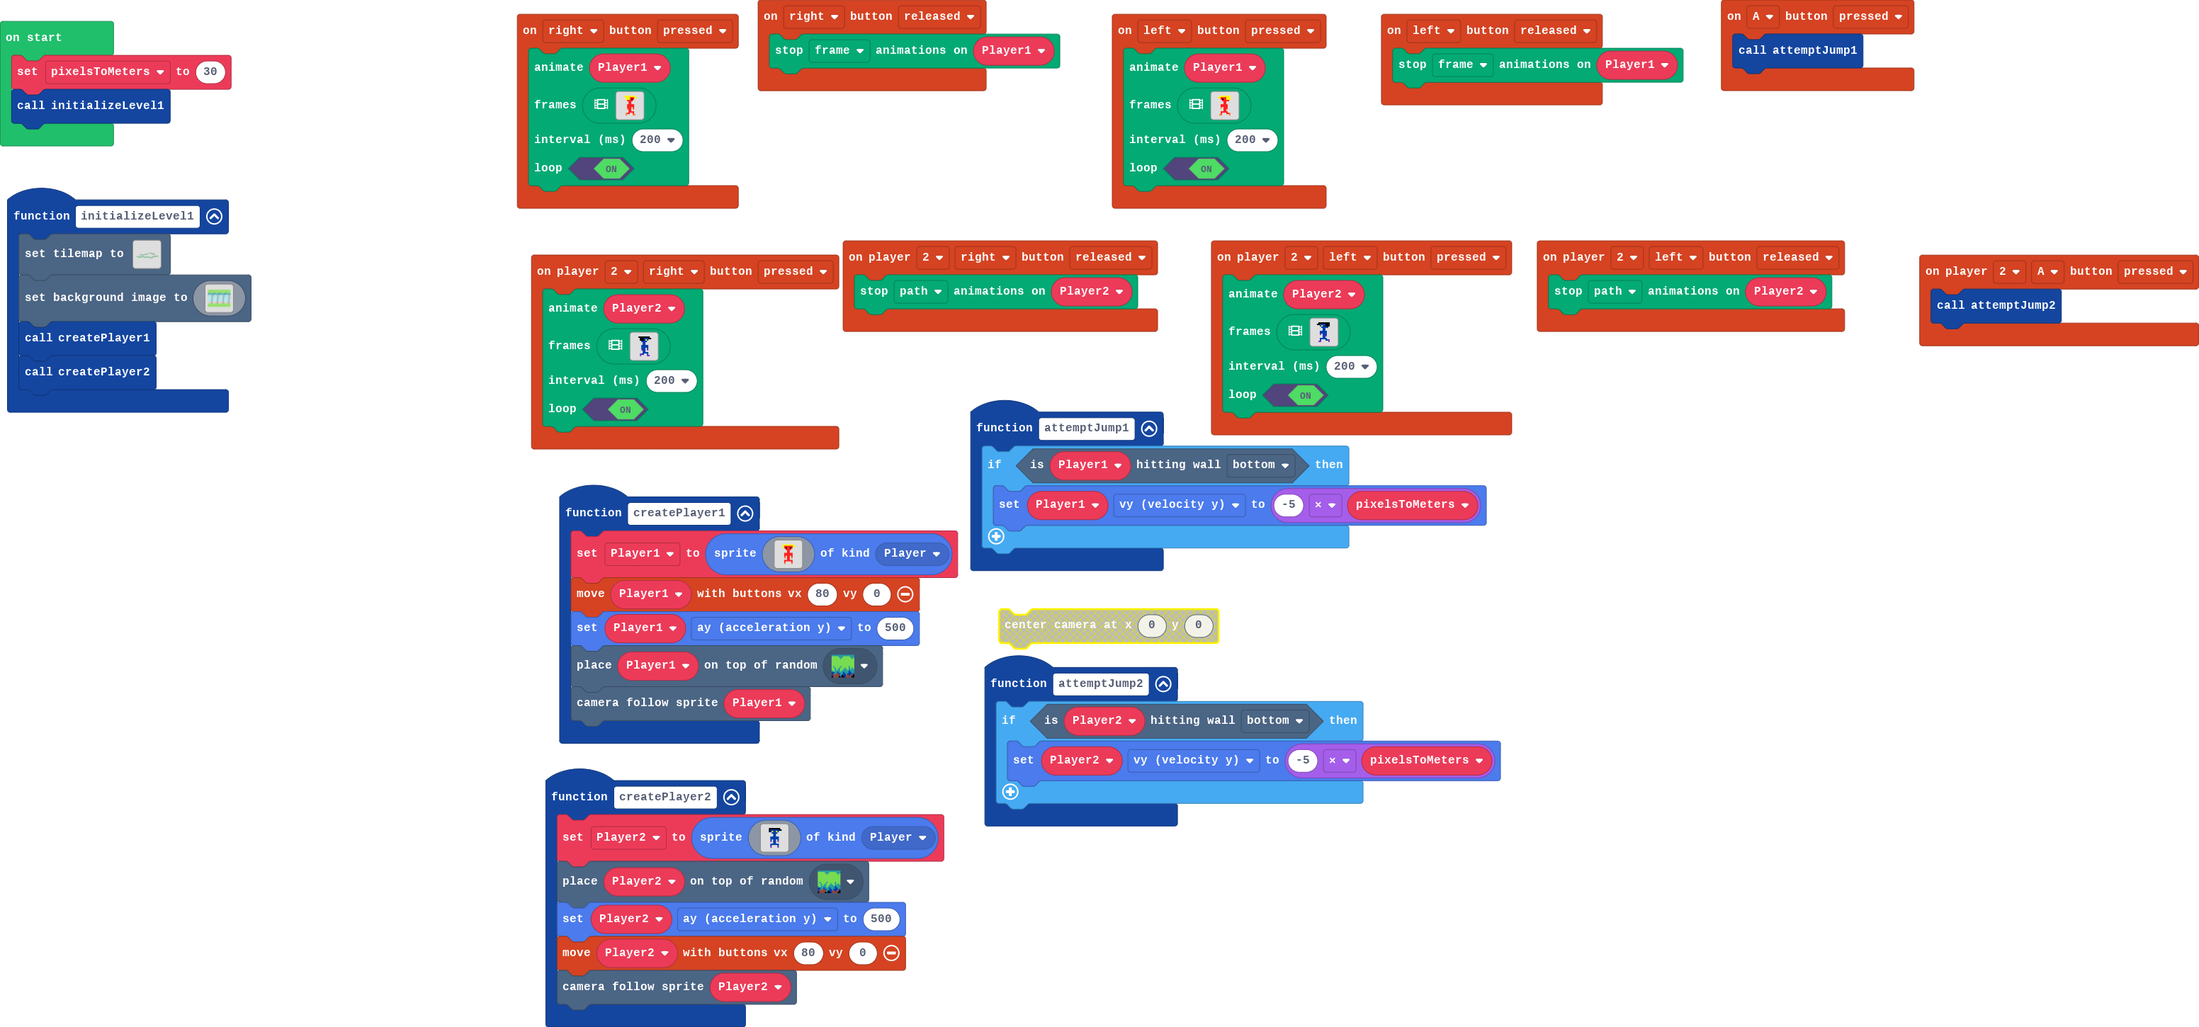
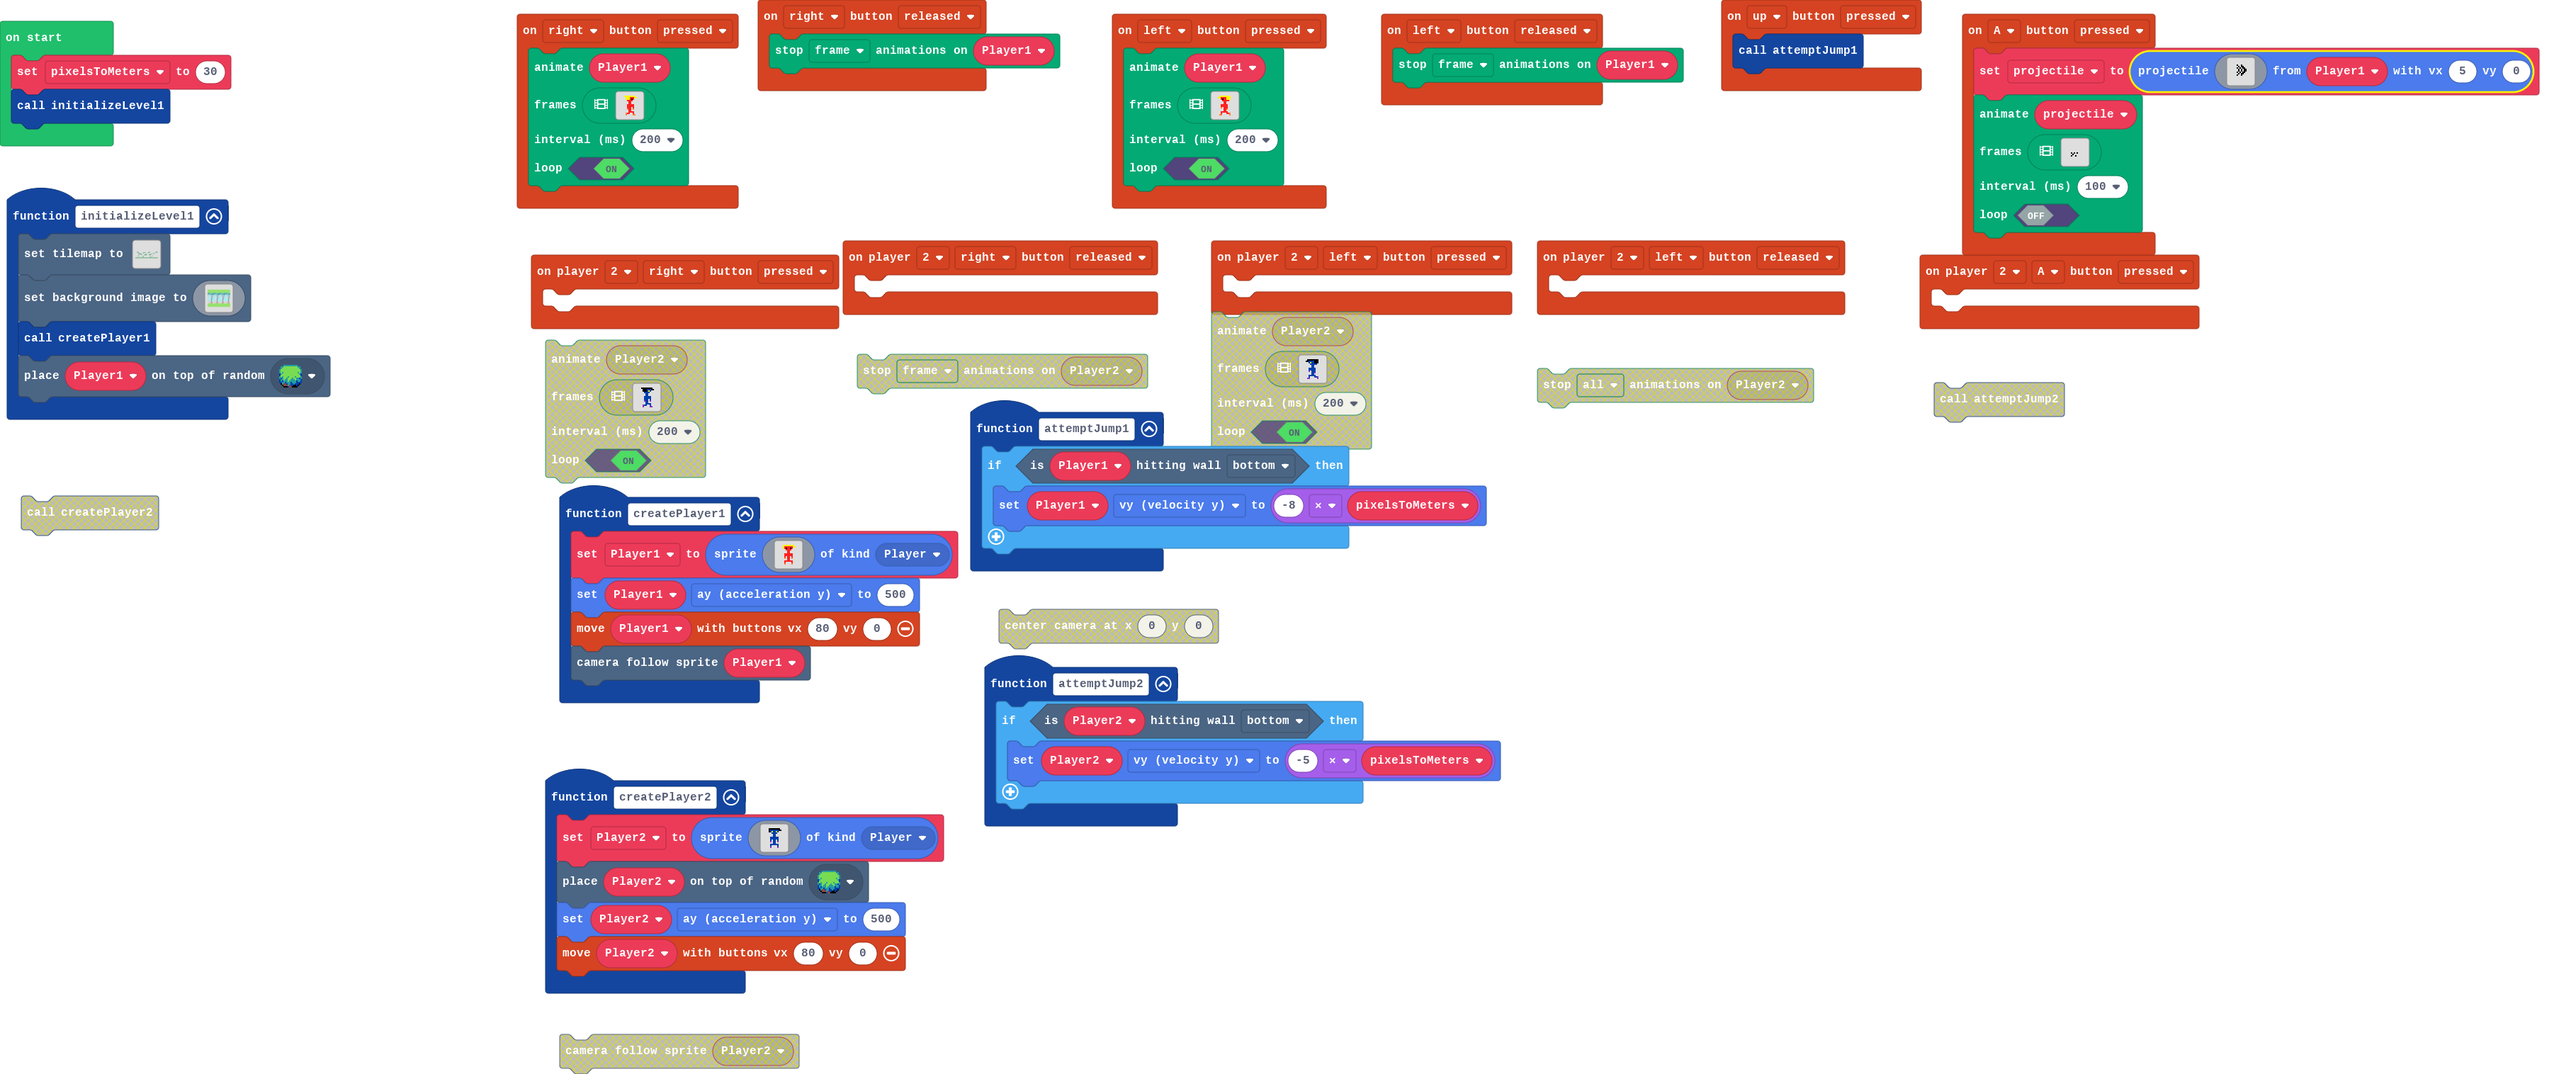
Update main.blocks, main.ts, tilemap.g.jres, tilemap.g.ts, images.g.jres, images.g.ts

diff --git a/tilemap.g.ts b/tilemap.g.ts
@@ -24,23 +24,6 @@ namespace myTiles {
 . . . . . . . . . . . . . . . . 
 . . . . . . . . . . . . . . . . 
 `, [myTiles.transparency16], TileScale.Sixteen);
-            case "Test Tilemap1":
[1 lines of base64/hex data omitted]
-........................................
-........................................
-........................................
-........................................
-........................................
-........................2222............
-....................22......22222.......
-........22......22.22..........2........
-..........22222..................2......
-......2.................................
-...................................22222
-..222....22222................222222...2
-.....22222....222222222222...2..........
-..........................2222..........
-`, [myTiles.transparency16,sprites.builtin.forestTiles0,sprites.builtin.forestTiles22,sprites.builtin.forestTiles21,sprites.builtin.forestTiles23,sprites.builtin.forestTiles3,sprites.builtin.forestTiles1], TileScale.Sixteen);
             case "level2":
             case "level2":return tiles.createTilemap(hex`1000100000000000000000000000000000000000000000000000000000000000000000000000000000000000000000000000000000000000000000000000000000000000000000000000000000000000000000000000000000000000000000000000000000000000000000000000000000000000000000000000000000000000000000000000000000000000000000000000000000000000000000000000000000000000000000000000000000000000000000000000000000000000000000000000000000000000000000000000000000000000000000000000000000000000000000000000000000000000000000000000000000000000000000000000000000000000`, img`
 . . . . . . . . . . . . . . . . 
@@ -60,6 +43,42 @@ namespace myTiles {
 . . . . . . . . . . . . . . . . 
 . . . . . . . . . . . . . . . . 
 `, [myTiles.transparency16], TileScale.Sixteen);
+            case "level3":
+            case "level3":return tiles.createTilemap(hex`1000100000000000000000000000000000000000000000000000000000000000000000000000000000000000000000000000000000000000000000000000000000000000000000000000000000000000000000000000000000000000000000000000000000000000000000000000000000000000000000000000000000000000000000000000000000000000000000000000000000000000000000000000000000000000000000000000000000000000000000000000000000000000000000000000000000000000000000000000000000000000000000000000000000000000000000000000000000000000000000000000000000000000000000000000000000000000`, img`
+. . . . . . . . . . . . . . . . 
+. . . . . . . . . . . . . . . . 
+. . . . . . . . . . . . . . . . 
+. . . . . . . . . . . . . . . . 
+. . . . . . . . . . . . . . . . 
+. . . . . . . . . . . . . . . . 
+. . . . . . . . . . . . . . . . 
+. . . . . . . . . . . . . . . . 
+. . . . . . . . . . . . . . . . 
+. . . . . . . . . . . . . . . . 
+. . . . . . . . . . . . . . . . 
+. . . . . . . . . . . . . . . . 
+. . . . . . . . . . . . . . . . 
+. . . . . . . . . . . . . . . . 
+. . . . . . . . . . . . . . . . 
+. . . . . . . . . . . . . . . . 
+`, [myTiles.transparency16], TileScale.Sixteen);
+            case "Level1":
[1 lines of base64/hex data omitted]
+2......................................2
+2......................................2
+2......................................2
+2..22...................22..........2222
+2...22........2222....222..........2...2
+2.............2.................2......2
+2.....2222...................2..2......2
+2.....2..222......222.....22...........2
+2...............222.....222............2
+2......................................2
+2...2.2......2................2........2
+2............2.............2...........2
+2............2............2............2
+2222222222222222222222222222222222222222
+`, [myTiles.transparency16,sprites.builtin.forestTiles0,sprites.builtin.forestTiles3,sprites.builtin.forestTiles1,sprites.builtin.forestTiles2,sprites.builtin.forestTiles4], TileScale.Sixteen);
         }
         return null;
     })

diff --git a/images.g.ts b/images.g.ts
@@ -60,6 +60,25 @@ namespace myImages {
 . . . . . a . . . . a . . . . . 
 . . . . . . . . . . . . . . . . 
 `;
+            case "image4":
+            case "punchRight":return img`
+. . . . . . . . . . . . . . . . 
+. . . . . . . . . . . . . . . . 
+. . . . . . . . . . . . . . . . 
+. . . . . f . . f . . . . . . . 
+. . . . . . f . f f . . . . . . 
+. . . . . f . f . f f . . . . . 
+. . . . . . f . f . f f . . . . 
+. . . . . . f . f . f f . . . . 
+. . . . . f . f . f f . . . . . 
+. . . . . . f . f f . . . . . . 
+. . . . . f . . f . . . . . . . 
+. . . . . . . . . . . . . . . . 
+. . . . . . . . . . . . . . . . 
+. . . . . . . . . . . . . . . . 
+. . . . . . . . . . . . . . . . 
+. . . . . . . . . . . . . . . . 
+`;
         }
         return null;
     })
@@ -208,6 +227,144 @@ namespace myImages {
 . . . . . 8 8 8 8 8 . . . . . . 
 . . . . a a . . . 8 . . . . . . 
 . . . . . . . . a a . . . . . . 
+. . . . . . . . . . . . . . . . 
+`];
+            case "PunchRightAnimation":
+            case "anim5":return [img`
+. . . . . . . . . . . . . . . . 
+. . . . . . . . . . . . . . . . 
+. . . . . . . . . . . . . . . . 
+. . . . . . . . . . . . . . . . 
+. . . . . . . . . . . . . . . . 
+. . . . . . . . . . . . . . . . 
+. . . . . . . . . . . . . . . . 
+. . . . . . . . . . . . . . . . 
+. . . . . f . f . f . . . . . . 
+. . . . . . f . . . . . . . . . 
+. . . . . f . . f . . . . . . . 
+. . . . . . . . . . . . . . . . 
+. . . . . . . . . . . . . . . . 
+. . . . . . . . . . . . . . . . 
+. . . . . . . . . . . . . . . . 
+. . . . . . . . . . . . . . . . 
+`, img`
+. . . . . . . . . . . . . . . . 
+. . . . . . . . . . . . . . . . 
+. . . . . . . . . . . . . . . . 
+. . . . . . . . . . . . . . . . 
+. . . . . . . . . . . . . . . . 
+. . . . . . . . . . . . . . . . 
+. . . . . . f . f . . . . . . . 
+. . . . . . f . f . f . . . . . 
+. . . . . f . f . f f . . . . . 
+. . . . . . f . f f . . . . . . 
+. . . . . f . . f . . . . . . . 
+. . . . . . . . . . . . . . . . 
+. . . . . . . . . . . . . . . . 
+. . . . . . . . . . . . . . . . 
+. . . . . . . . . . . . . . . . 
+. . . . . . . . . . . . . . . . 
+`, img`
+. . . . . . . . . . . . . . . . 
+. . . . . . . . . . . . . . . . 
+. . . . . . . . . . . . . . . . 
+. . . . . . . . . . . . . . . . 
+. . . . . . . . . . . . . . . . 
+. . . . . . . f . f f . . . . . 
+. . . . . . f . f . f f . . . . 
+. . . . . . f . f . f f . . . . 
+. . . . . f . f . f f . . . . . 
+. . . . . . f . f f . . . . . . 
+. . . . . f . . f . . . . . . . 
+. . . . . . . . . . . . . . . . 
+. . . . . . . . . . . . . . . . 
+. . . . . . . . . . . . . . . . 
+. . . . . . . . . . . . . . . . 
+. . . . . . . . . . . . . . . . 
+`, img`
+. . . . . . . . . . . . . . . . 
+. . . . . . . . . . . . . . . . 
+. . . . . . . . . . . . . . . . 
+. . . . . f . . f . . . . . . . 
+. . . . . . f . f f . . . . . . 
+. . . . . f . f . f f . . . . . 
+. . . . . . f . f . f f . . . . 
+. . . . . . f . f . f f . . . . 
+. . . . . f . f . f f . . . . . 
+. . . . . . f . f f . . . . . . 
+. . . . . f . . f . . . . . . . 
+. . . . . . . . . . . . . . . . 
+. . . . . . . . . . . . . . . . 
+. . . . . . . . . . . . . . . . 
+. . . . . . . . . . . . . . . . 
+. . . . . . . . . . . . . . . . 
+`, img`
+. . . . . . . . . . . . . . . . 
+. . . . . . . . . . . . . . . . 
+. . . . . . . . . . . . . . . . 
+. . . . . f . . f . . . . . . . 
+. . . . . . f . f f . . . . . . 
+. . . . . f . f . f f . . . . . 
+. . . . . . f . f . f f . . . . 
+. . . . . . f . f . f f . . . . 
+. . . . . . . f . f f . . . . . 
+. . . . . . . . . . . . . . . . 
+. . . . . . . . . . . . . . . . 
+. . . . . . . . . . . . . . . . 
+. . . . . . . . . . . . . . . . 
+. . . . . . . . . . . . . . . . 
+. . . . . . . . . . . . . . . . 
+. . . . . . . . . . . . . . . . 
+`, img`
+. . . . . . . . . . . . . . . . 
+. . . . . . . . . . . . . . . . 
+. . . . . . . . . . . . . . . . 
+. . . . . f . . f . . . . . . . 
+. . . . . . f . f f . . . . . . 
+. . . . . f . f . f f . . . . . 
+. . . . . . f . f . f f . . . . 
+. . . . . . . . . . . . . . . . 
+. . . . . . . . . . . . . . . . 
+. . . . . . . . . . . . . . . . 
+. . . . . . . . . . . . . . . . 
+. . . . . . . . . . . . . . . . 
+. . . . . . . . . . . . . . . . 
+. . . . . . . . . . . . . . . . 
+. . . . . . . . . . . . . . . . 
+. . . . . . . . . . . . . . . . 
+`, img`
+. . . . . . . . . . . . . . . . 
+. . . . . . . . . . . . . . . . 
+. . . . . . . . . . . . . . . . 
+. . . . . f . . f . . . . . . . 
+. . . . . . f . . . . . . . . . 
+. . . . . f . . . f . . . . . . 
+. . . . . . . . . . . . . . . . 
+. . . . . . . . . . . . . . . . 
+. . . . . . . . . . . . . . . . 
+. . . . . . . . . . . . . . . . 
+. . . . . . . . . . . . . . . . 
+. . . . . . . . . . . . . . . . 
+. . . . . . . . . . . . . . . . 
+. . . . . . . . . . . . . . . . 
+. . . . . . . . . . . . . . . . 
+. . . . . . . . . . . . . . . . 
+`, img`
+. . . . . . . . . . . . . . . . 
+. . . . . . . . . . . . . . . . 
+. . . . . . . . . . . . . . . . 
+. . . . . . . . . . . . . . . . 
+. . . . . . . . . . . . . . . . 
+. . . . . . . . . . . . . . . . 
+. . . . . . . . . . . . . . . . 
+. . . . . . . . . . . . . . . . 
+. . . . . . . . . . . . . . . . 
+. . . . . . . . . . . . . . . . 
+. . . . . . . . . . . . . . . . 
+. . . . . . . . . . . . . . . . 
+. . . . . . . . . . . . . . . . 
+. . . . . . . . . . . . . . . . 
+. . . . . . . . . . . . . . . . 
 . . . . . . . . . . . . . . . . 
 `];
         }

diff --git a/main.ts b/main.ts
@@ -1,13 +1,22 @@
+controller.up.onEvent(ControllerButtonEvent.Pressed, function () {
+    attemptJump1()
+})
 function attemptJump2 () {
     if (Player2.isHittingTile(CollisionDirection.Bottom)) {
         Player2.vy = -5 * pixelsToMeters
     }
 }
 controller.A.onEvent(ControllerButtonEvent.Pressed, function () {
-    attemptJump1()
+    projectile = sprites.createProjectileFromSprite(assets.image`punchRight`, Player1, 5, 0)
+    animation.runImageAnimation(
+    projectile,
+    assets.animation`PunchRightAnimation`,
+    100,
+    false
+    )
 })
 controller.player2.onButtonEvent(ControllerButton.A, ControllerButtonEvent.Pressed, function () {
-    attemptJump2()
+	
 })
 controller.left.onEvent(ControllerButtonEvent.Pressed, function () {
     animation.runImageAnimation(
@@ -18,13 +27,13 @@ controller.left.onEvent(ControllerButtonEvent.Pressed, function () {
     )
 })
 controller.player2.onButtonEvent(ControllerButton.Left, ControllerButtonEvent.Released, function () {
-    animation.stopAnimation(animation.AnimationTypes.MovementAnimation, Player2)
+	
 })
 controller.right.onEvent(ControllerButtonEvent.Released, function () {
     animation.stopAnimation(animation.AnimationTypes.ImageAnimation, Player1)
 })
 function initializeLevel1 () {
-    tiles.setTilemap(tilemap`Test Tilemap1`)
+    tiles.setTilemap(tilemap`Level1`)
     scene.setBackgroundImage(img`
         7777777777777777777777777777777777777777777777777777777777777777777777777777777777777777777777777777777777777777777777777777777777777777777777777777777777777777
         7777777777777777777777777777777777777777777777777777777777777777777777777777777777777777777777777777777777777777777777777777777777777777777777777777777777777777
@@ -148,7 +157,7 @@ function initializeLevel1 () {
         7777777777777777777777777777777777777777777777777777777777777777777777777777777777777777777777777777777777777777777777777777777777777777777777777777777777777777
         `)
     createPlayer1()
-    createPlayer2()
+    tiles.placeOnRandomTile(Player1, sprites.builtin.forestTiles0)
 }
 controller.left.onEvent(ControllerButtonEvent.Released, function () {
     animation.stopAnimation(animation.AnimationTypes.ImageAnimation, Player1)
@@ -162,44 +171,33 @@ controller.right.onEvent(ControllerButtonEvent.Pressed, function () {
     )
 })
 controller.player2.onButtonEvent(ControllerButton.Right, ControllerButtonEvent.Pressed, function () {
-    animation.runImageAnimation(
-    Player2,
-    assets.animation`Player2AnimateRight`,
-    200,
-    true
-    )
+	
 })
 controller.player2.onButtonEvent(ControllerButton.Left, ControllerButtonEvent.Pressed, function () {
-    animation.runImageAnimation(
-    Player2,
-    assets.animation`Player2AnimateLeft`,
-    200,
-    true
-    )
+	
 })
 function attemptJump1 () {
     if (Player1.isHittingTile(CollisionDirection.Bottom)) {
-        Player1.vy = -5 * pixelsToMeters
+        Player1.vy = -8 * pixelsToMeters
     }
 }
 function createPlayer1 () {
     Player1 = sprites.create(assets.image`Player1Stationary`, SpriteKind.Player)
-    controller.moveSprite(Player1, 80, 0)
     Player1.ay = 500
-    tiles.placeOnRandomTile(Player1, sprites.builtin.forestTiles22)
+    controller.moveSprite(Player1, 80, 0)
     scene.cameraFollowSprite(Player1)
 }
 function createPlayer2 () {
     Player2 = sprites.create(assets.image`Player2Stationary`, SpriteKind.Player)
-    tiles.placeOnRandomTile(Player2, sprites.builtin.forestTiles22)
+    tiles.placeOnRandomTile(Player2, sprites.builtin.forestTiles0)
     Player2.ay = 500
     controller.moveSprite(Player2, 80, 0)
-    scene.cameraFollowSprite(Player2)
 }
 controller.player2.onButtonEvent(ControllerButton.Right, ControllerButtonEvent.Released, function () {
-    animation.stopAnimation(animation.AnimationTypes.MovementAnimation, Player2)
+	
 })
 let Player1: Sprite = null
+let projectile: Sprite = null
 let Player2: Sprite = null
 let pixelsToMeters = 0
 pixelsToMeters = 30
